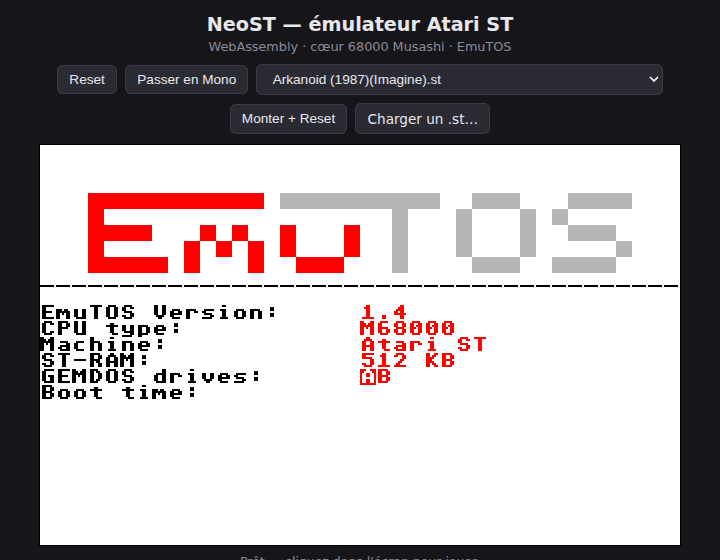
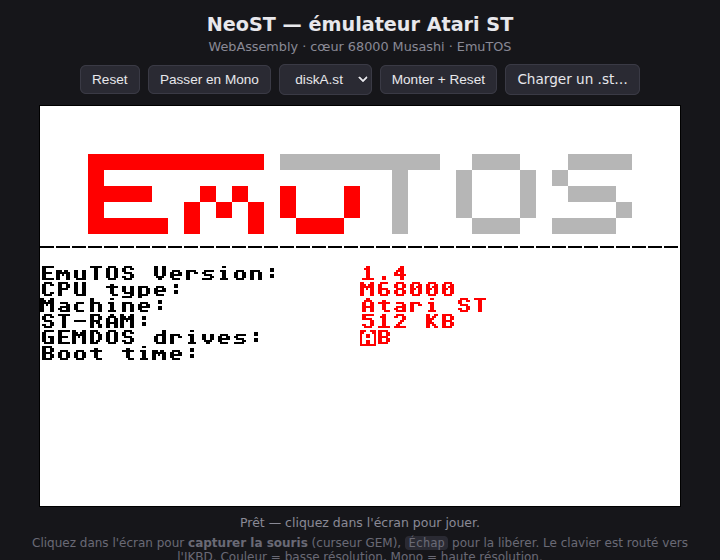
Compile la version WASM dans le dossier wasm/ (servi par Pages) (#2)
- CMakeLists : la cible neost-web écrit ses artefacts dans wasm/
  (RUNTIME_OUTPUT_DIRECTORY) au lieu de build-web/.
- wasm/ : artefacts compilés versionnés (variante libre EmuTOS + diskA),
  c'est ce dossier que publie GitHub Pages.
- workflow : déploie directement wasm/ (plus de copie intermédiaire).
- README : lien vers le dossier wasm/, instructions de build/serve mises
  à jour (sortie dans wasm/), capture régénérée depuis la démo publique.

Changed region(s): [[0.0306, 0.0911, 0.9472, 0.7286], [0.0306, 0.8804, 0.9472, 1.0]]

diff --git a/README.md b/README.md
@@ -68,12 +68,16 @@ cmake --build build -j
 
 **▶ Essayer NeoST en ligne : <https://habib256.github.io/neost/>**
 
-> Le lien est publié par GitHub Pages via le workflow
-> [`.github/workflows/deploy-web.yml`](.github/workflows/deploy-web.yml) (au push
-> sur `main`). Pour l'activer : **Settings → Pages → Source = GitHub Actions**.
-> La démo publique n'embarque que des contenus **libres** (EmuTOS GPL + `diskA.st`
-> générée) ; les jeux sous copyright ne sont pas redistribués — chargez vos
-> propres `.st` via le bouton « Charger un .st… ».
+Les artefacts compilés (`index.html`, `.js`, `.wasm`, `.data`) sont versionnés
+dans le dossier **[`wasm/`](wasm/)** — c'est ce dossier que sert GitHub Pages.
+
+> Le déploiement est automatisé par le workflow
+> [`.github/workflows/deploy-web.yml`](.github/workflows/deploy-web.yml)
+> (recompile `wasm/` au push sur `main`). Pour activer le lien :
+> **Settings → Pages → Source = GitHub Actions**. La démo publique n'embarque que
+> des contenus **libres** (EmuTOS GPL + `diskA.st` générée) ; les jeux sous
+> copyright ne sont pas redistribués — chargez vos propres `.st` via le bouton
+> « Charger un .st… ».
 
 ![NeoST WASM — boot EmuTOS](web/neost-wasm-emutos.png)
 
@@ -84,19 +88,19 @@ boucle temporisée par `emscripten_set_main_loop`. Clic dans l'écran = capture
 souris (curseur GEM), `Échap` la libère ; le clavier est routé vers l'IKBD.
 
 Construction locale (nécessite l'[emsdk](https://emscripten.org/docs/getting_started/downloads.html)
-activé, `source .../emsdk_env.sh`) :
+activé, `source .../emsdk_env.sh`) — la cible `neost-web` écrit dans `wasm/` :
 
 ```sh
-emcmake cmake -B build-web -DCMAKE_BUILD_TYPE=Release
-cmake --build build-web -j --target neost-web      # → build-web/index.{html,js,wasm,data}
+emcmake cmake -B build-web -DCMAKE_BUILD_TYPE=Release -DNEOST_WEB_FREE_ONLY=ON
+cmake --build build-web -j --target neost-web      # → wasm/index.{html,js,wasm,data}
 # Servir en HTTP (les .wasm/.data ne se chargent pas en file://) :
-python3 -m http.server -d build-web 8000           # puis ouvrir http://localhost:8000/
+python3 -m http.server -d wasm 8000                # puis ouvrir http://localhost:8000/
 ```
 
 ROM et disquettes sont embarquées dans le FS virtuel via `--preload-file` ; le
-menu déroulant liste les images présentes. Option CMake
-`-DNEOST_WEB_FREE_ONLY=ON` pour n'embarquer que les contenus libres (utilisée
-par le déploiement public).
+menu déroulant liste les images présentes. Sans `-DNEOST_WEB_FREE_ONLY=ON`, tout
+`rom/` et `disks/` est embarqué (confort de test local, mais ne pas committer
+le `wasm/` ainsi produit : il contiendrait des contenus sous copyright).
 
 ### Disquette (FDC WD1772 + DMA)
 
